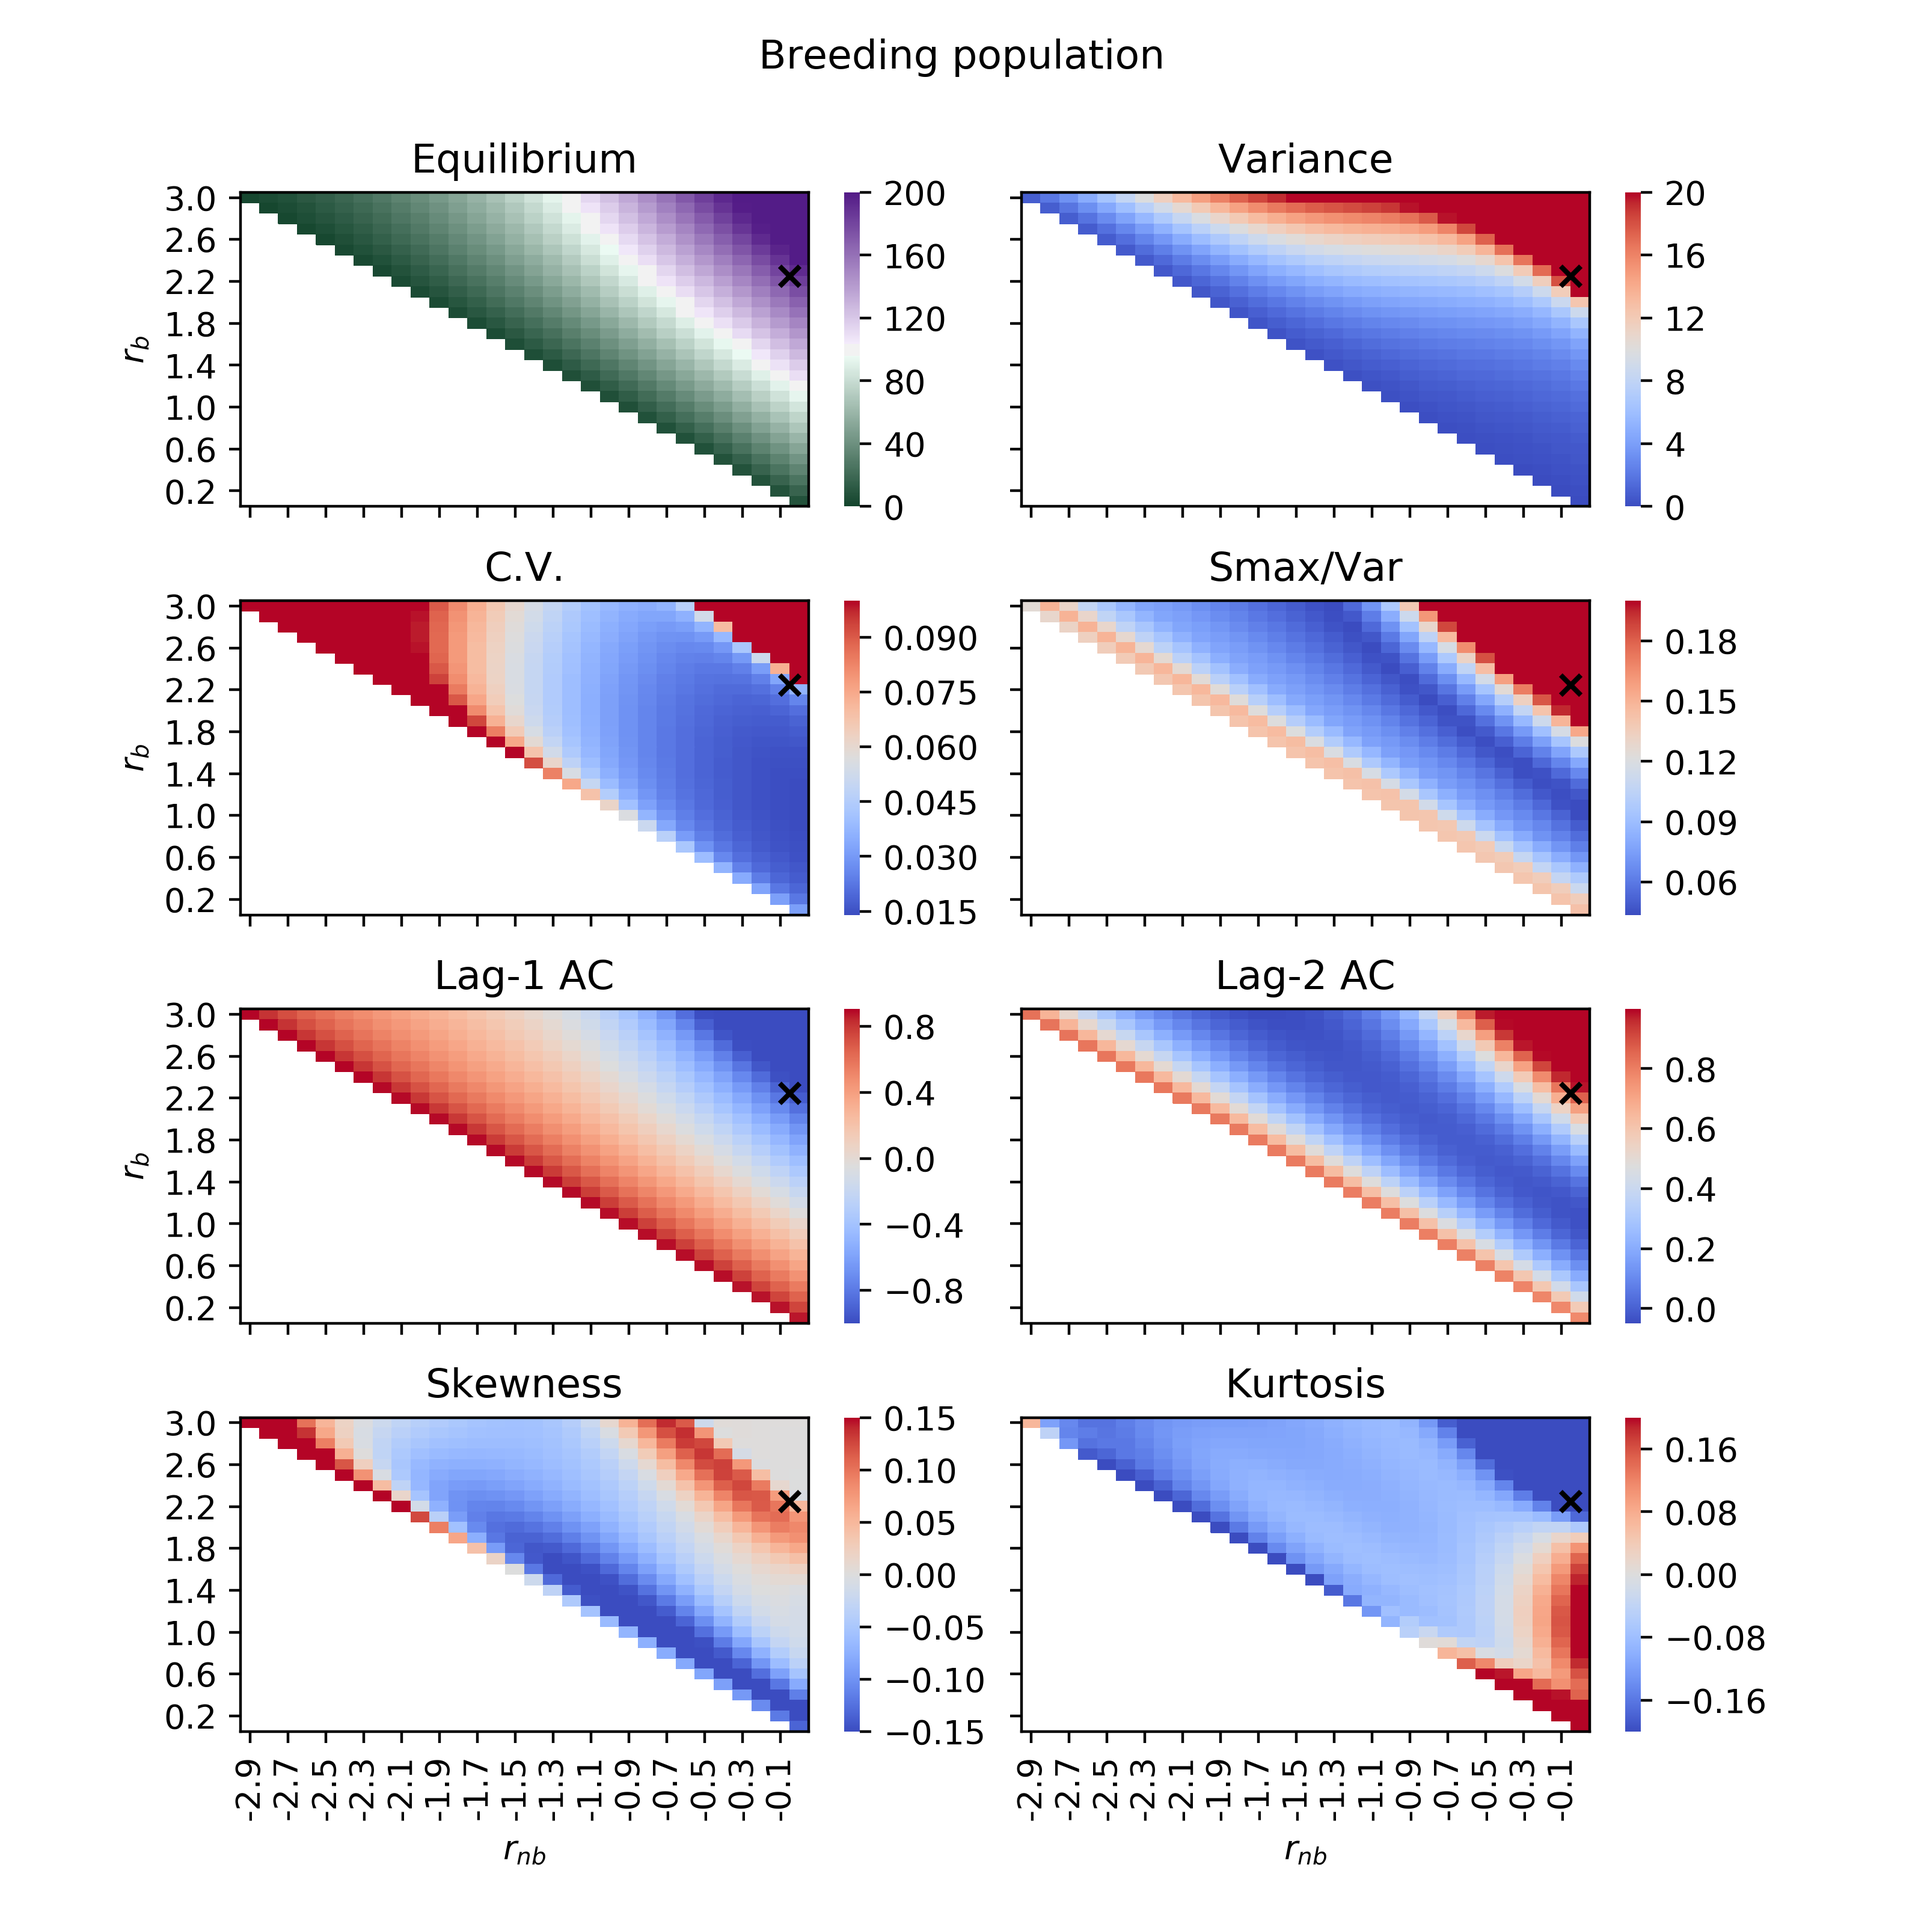
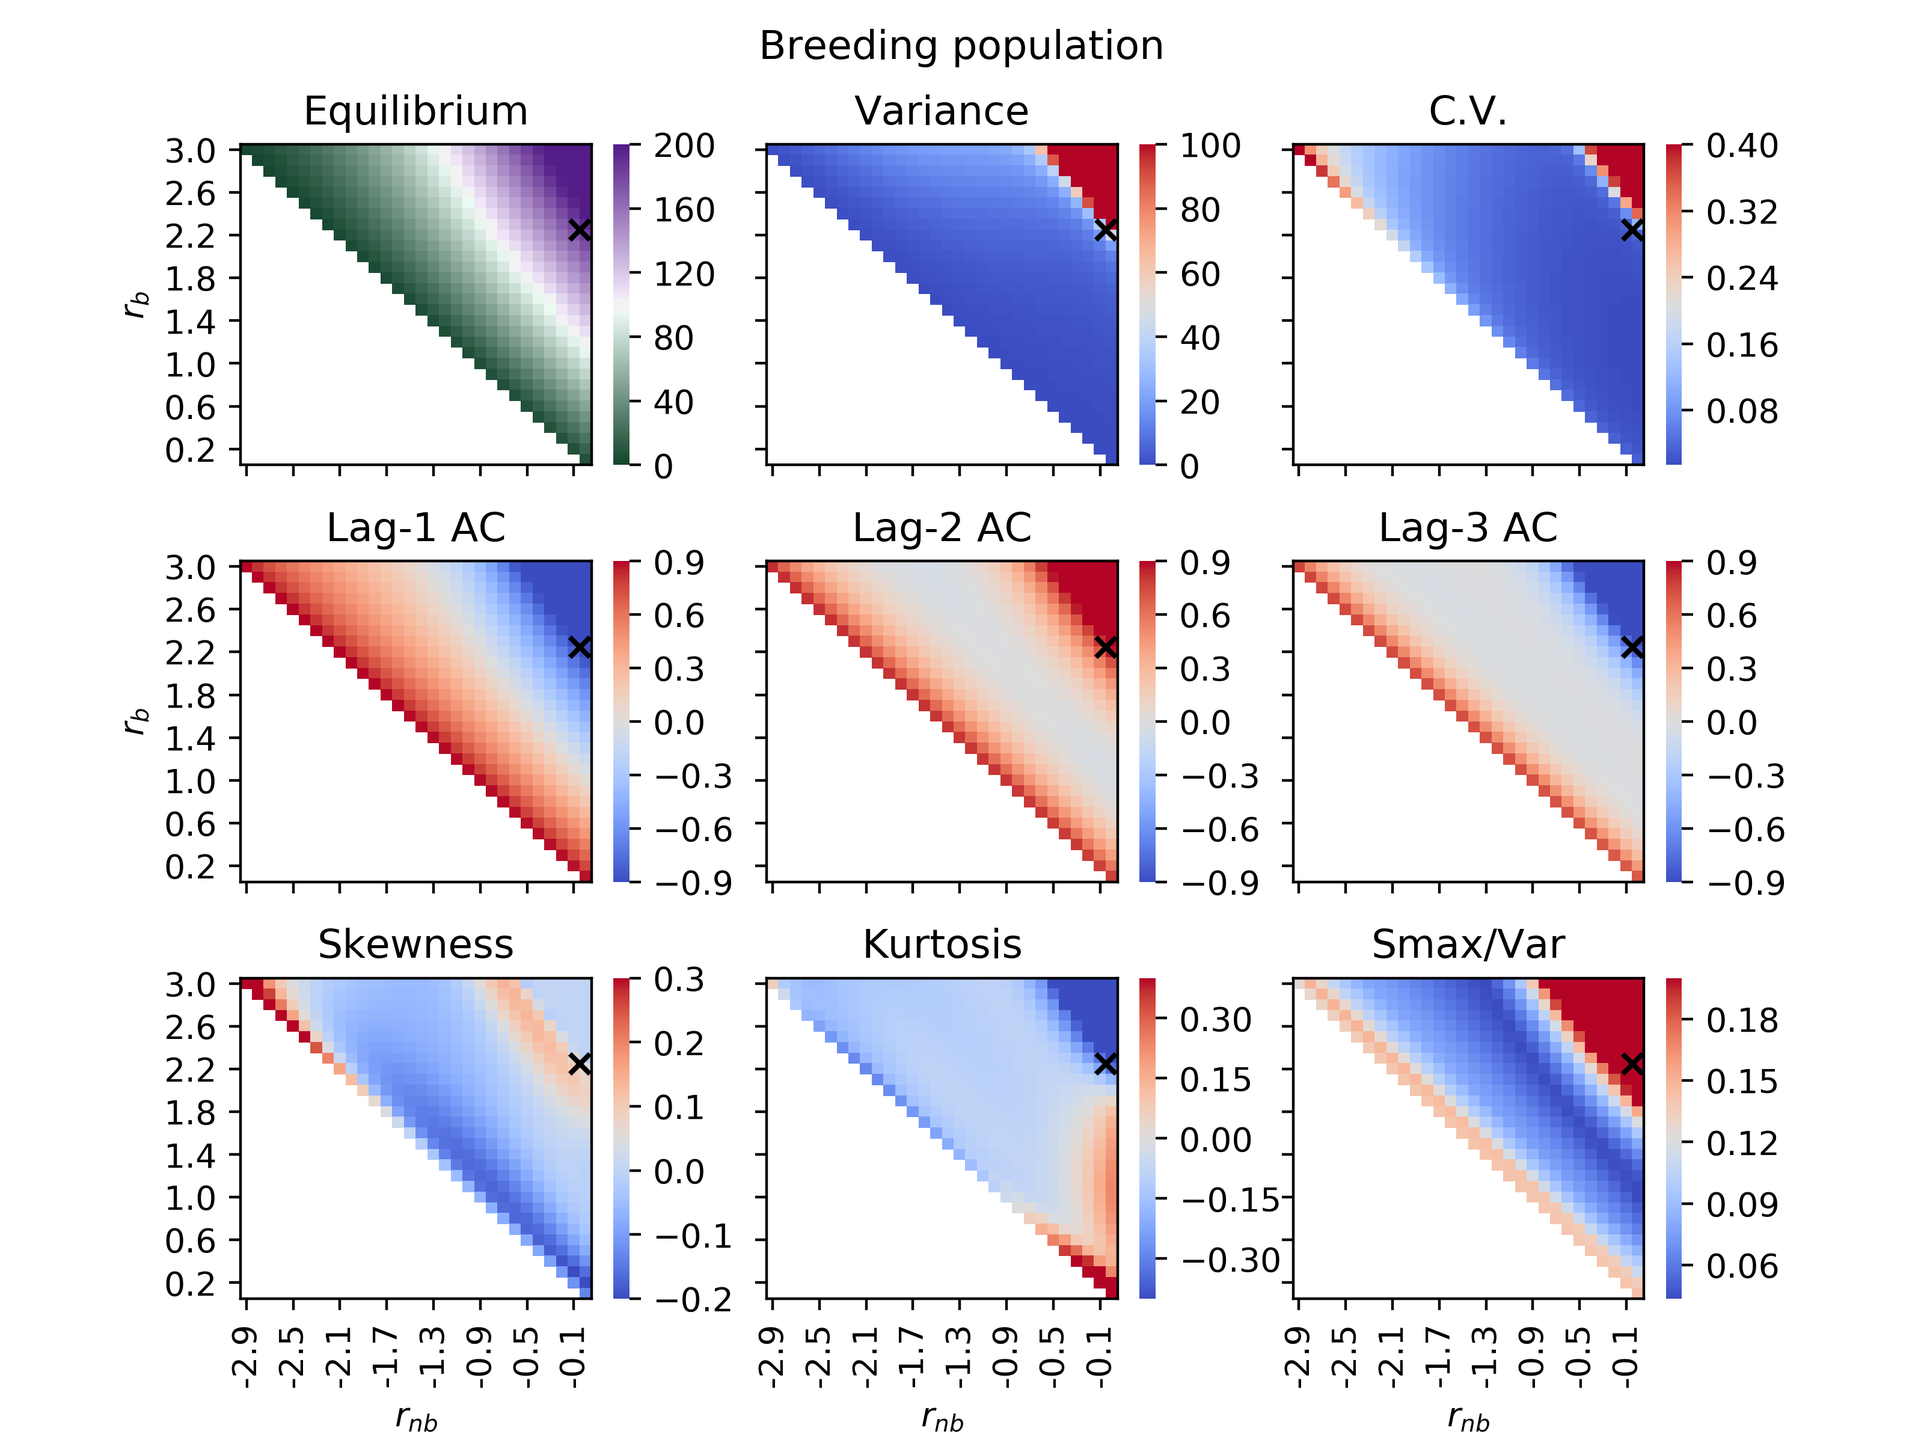
stat ews

diff --git a/models_ricker/ricker_seasonal_coe/sim_trans_rb.py b/models_ricker/ricker_seasonal_coe/sim_trans_rb.py
@@ -45,13 +45,13 @@ dt = 1 # time-step (must be 1 since discrete-time system)
 t0 = 0
 tmax = 1000
 tburn = 200 # burn-in periods
-numSims = 3
+numSims = 10
 seed = 10 # random number generation seed
 
 
 # EWS parameters
 dt2 = 1 # spacing between time-series for EWS computation
-rw = 0.4 # rolling window
+rw = 0.2 # rolling window
 span = 0.5 # Lowess span
 lags = [1,2,3] # autocorrelation lag times
 ews = ['var','ac','sd','cv','skew','kurt','smax','smax/mean','smax/var'] # EWS to compute
@@ -75,7 +75,7 @@ rnb_emp = -0.0568
 rnb = rnb_emp    # Growth rate for non-breeding period (emp. -0.0568)
 alpha_b = 0.01 # density dependent effects in breeding period
 alpha_nb = 0.000672 # density dependent effects in non-breeding period
-a = 0 # Strength of carry-over effects
+a = 0.001 # Strength of carry-over effects
 
 # Noise parameters
 amp_dem_b = 0.02 # amplitude of demographic noise
@@ -349,6 +349,119 @@ axes[4].set_ylabel('Smax/Var')
 axes[5].set_ylabel('Skewness')
 axes[6].set_ylabel('Kurtosis')
 
+
+# Realisation number to plot
+plot_num = 4
+## Plot of trajectory, smoothing and EWS of var (x or y)
+fig1, axes = plt.subplots(nrows=7, ncols=1, sharex=True, figsize=(4,8))
+df_ews.loc[plot_num]['State variable'].unstack(level=0).plot(ax=axes[0],
+          title='Early warning signals for a single realisation')
+df_ews.loc[plot_num]['Coefficient of variation'].unstack(level=0).plot(ax=axes[1],legend=False)
+df_ews.loc[plot_num]['Lag-1 AC'].unstack(level=0).plot(ax=axes[2], legend=False)
+df_ews.loc[plot_num]['Lag-2 AC'].unstack(level=0).plot(ax=axes[3], legend=False)
+df_ews.loc[plot_num,'Smax/Var'].dropna().unstack(level=0).plot(ax=axes[4], legend=False)
+df_ews.loc[plot_num]['Skewness'].unstack(level=0).plot(ax=axes[5], legend=False, xlim=(0,tmax))
+df_ews.loc[plot_num]['Kurtosis'].unstack(level=0).plot(ax=axes[6], legend=False, xlim=(0,tmax))
+
+axes[0].set_ylabel('Population')
+axes[0].legend(title=None)
+axes[1].set_ylabel('CoV')
+axes[2].set_ylabel('Lag-1 AC')
+axes[3].set_ylabel('Lag-2 AC')
+axes[4].set_ylabel('Smax/Var')
+axes[5].set_ylabel('Skewness')
+axes[6].set_ylabel('Kurtosis')
+
+
+# Realisation number to plot
+plot_num = 5
+## Plot of trajectory, smoothing and EWS of var (x or y)
+fig1, axes = plt.subplots(nrows=7, ncols=1, sharex=True, figsize=(4,8))
+df_ews.loc[plot_num]['State variable'].unstack(level=0).plot(ax=axes[0],
+          title='Early warning signals for a single realisation')
+df_ews.loc[plot_num]['Coefficient of variation'].unstack(level=0).plot(ax=axes[1],legend=False)
+df_ews.loc[plot_num]['Lag-1 AC'].unstack(level=0).plot(ax=axes[2], legend=False)
+df_ews.loc[plot_num]['Lag-2 AC'].unstack(level=0).plot(ax=axes[3], legend=False)
+df_ews.loc[plot_num,'Smax/Var'].dropna().unstack(level=0).plot(ax=axes[4], legend=False)
+df_ews.loc[plot_num]['Skewness'].unstack(level=0).plot(ax=axes[5], legend=False, xlim=(0,tmax))
+df_ews.loc[plot_num]['Kurtosis'].unstack(level=0).plot(ax=axes[6], legend=False, xlim=(0,tmax))
+
+axes[0].set_ylabel('Population')
+axes[0].legend(title=None)
+axes[1].set_ylabel('CoV')
+axes[2].set_ylabel('Lag-1 AC')
+axes[3].set_ylabel('Lag-2 AC')
+axes[4].set_ylabel('Smax/Var')
+axes[5].set_ylabel('Skewness')
+axes[6].set_ylabel('Kurtosis')
+
+
+# Realisation number to plot
+plot_num = 6
+## Plot of trajectory, smoothing and EWS of var (x or y)
+fig1, axes = plt.subplots(nrows=7, ncols=1, sharex=True, figsize=(4,8))
+df_ews.loc[plot_num]['State variable'].unstack(level=0).plot(ax=axes[0],
+          title='Early warning signals for a single realisation')
+df_ews.loc[plot_num]['Coefficient of variation'].unstack(level=0).plot(ax=axes[1],legend=False)
+df_ews.loc[plot_num]['Lag-1 AC'].unstack(level=0).plot(ax=axes[2], legend=False)
+df_ews.loc[plot_num]['Lag-2 AC'].unstack(level=0).plot(ax=axes[3], legend=False)
+df_ews.loc[plot_num,'Smax/Var'].dropna().unstack(level=0).plot(ax=axes[4], legend=False)
+df_ews.loc[plot_num]['Skewness'].unstack(level=0).plot(ax=axes[5], legend=False, xlim=(0,tmax))
+df_ews.loc[plot_num]['Kurtosis'].unstack(level=0).plot(ax=axes[6], legend=False, xlim=(0,tmax))
+
+axes[0].set_ylabel('Population')
+axes[0].legend(title=None)
+axes[1].set_ylabel('CoV')
+axes[2].set_ylabel('Lag-1 AC')
+axes[3].set_ylabel('Lag-2 AC')
+axes[4].set_ylabel('Smax/Var')
+axes[5].set_ylabel('Skewness')
+axes[6].set_ylabel('Kurtosis')
+
+
+# Realisation number to plot
+plot_num = 7
+## Plot of trajectory, smoothing and EWS of var (x or y)
+fig1, axes = plt.subplots(nrows=7, ncols=1, sharex=True, figsize=(4,8))
+df_ews.loc[plot_num]['State variable'].unstack(level=0).plot(ax=axes[0],
+          title='Early warning signals for a single realisation')
+df_ews.loc[plot_num]['Coefficient of variation'].unstack(level=0).plot(ax=axes[1],legend=False)
+df_ews.loc[plot_num]['Lag-1 AC'].unstack(level=0).plot(ax=axes[2], legend=False)
+df_ews.loc[plot_num]['Lag-2 AC'].unstack(level=0).plot(ax=axes[3], legend=False)
+df_ews.loc[plot_num,'Smax/Var'].dropna().unstack(level=0).plot(ax=axes[4], legend=False)
+df_ews.loc[plot_num]['Skewness'].unstack(level=0).plot(ax=axes[5], legend=False, xlim=(0,tmax))
+df_ews.loc[plot_num]['Kurtosis'].unstack(level=0).plot(ax=axes[6], legend=False, xlim=(0,tmax))
+
+axes[0].set_ylabel('Population')
+axes[0].legend(title=None)
+axes[1].set_ylabel('CoV')
+axes[2].set_ylabel('Lag-1 AC')
+axes[3].set_ylabel('Lag-2 AC')
+axes[4].set_ylabel('Smax/Var')
+axes[5].set_ylabel('Skewness')
+axes[6].set_ylabel('Kurtosis')
+
+# Realisation number to plot
+plot_num = 8
+## Plot of trajectory, smoothing and EWS of var (x or y)
+fig1, axes = plt.subplots(nrows=7, ncols=1, sharex=True, figsize=(4,8))
+df_ews.loc[plot_num]['State variable'].unstack(level=0).plot(ax=axes[0],
+          title='Early warning signals for a single realisation')
+df_ews.loc[plot_num]['Coefficient of variation'].unstack(level=0).plot(ax=axes[1],legend=False)
+df_ews.loc[plot_num]['Lag-1 AC'].unstack(level=0).plot(ax=axes[2], legend=False)
+df_ews.loc[plot_num]['Lag-2 AC'].unstack(level=0).plot(ax=axes[3], legend=False)
+df_ews.loc[plot_num,'Smax/Var'].dropna().unstack(level=0).plot(ax=axes[4], legend=False)
+df_ews.loc[plot_num]['Skewness'].unstack(level=0).plot(ax=axes[5], legend=False, xlim=(0,tmax))
+df_ews.loc[plot_num]['Kurtosis'].unstack(level=0).plot(ax=axes[6], legend=False, xlim=(0,tmax))
+
+axes[0].set_ylabel('Population')
+axes[0].legend(title=None)
+axes[1].set_ylabel('CoV')
+axes[2].set_ylabel('Lag-1 AC')
+axes[3].set_ylabel('Lag-2 AC')
+axes[4].set_ylabel('Smax/Var')
+axes[5].set_ylabel('Skewness')
+axes[6].set_ylabel('Kurtosis')
 
 
 # Box plot to visualise kendall tau values

diff --git a/models_ricker/ricker_seasonal_coe/sim_trans_rnb.py b/models_ricker/ricker_seasonal_coe/sim_trans_rnb.py
@@ -43,9 +43,9 @@ if not os.path.exists('data_export/'+dir_name):
 # Simulation parameters
 dt = 1 # time-step (must be 1 since discrete-time system)
 t0 = 0
-tmax = 1000
+tmax = 400
 tburn = 200 # burn-in periods
-numSims = 3
+numSims = 10
 seed = 10 # random number generation seed
 
 
@@ -349,6 +349,122 @@ axes[3].set_ylabel('Lag-2 AC')
 axes[4].set_ylabel('Smax/Var')
 axes[5].set_ylabel('Skewness')
 axes[6].set_ylabel('Kurtosis')
+
+
+
+
+# Realisation number to plot
+plot_num = 4
+## Plot of trajectory, smoothing and EWS of var (x or y)
+fig1, axes = plt.subplots(nrows=7, ncols=1, sharex=True, figsize=(4,8))
+df_ews.loc[plot_num]['State variable'].unstack(level=0).plot(ax=axes[0],
+          title='Early warning signals for a single realisation')
+df_ews.loc[plot_num]['Coefficient of variation'].unstack(level=0).plot(ax=axes[1],legend=False)
+df_ews.loc[plot_num]['Lag-1 AC'].unstack(level=0).plot(ax=axes[2], legend=False)
+df_ews.loc[plot_num]['Lag-2 AC'].unstack(level=0).plot(ax=axes[3], legend=False)
+df_ews.loc[plot_num,'Smax/Var'].dropna().unstack(level=0).plot(ax=axes[4], legend=False)
+df_ews.loc[plot_num]['Skewness'].unstack(level=0).plot(ax=axes[5], legend=False, xlim=(0,tmax))
+df_ews.loc[plot_num]['Kurtosis'].unstack(level=0).plot(ax=axes[6], legend=False, xlim=(0,tmax))
+
+axes[0].set_ylabel('Population')
+axes[0].legend(title=None)
+axes[1].set_ylabel('CoV')
+axes[2].set_ylabel('Lag-1 AC')
+axes[3].set_ylabel('Lag-2 AC')
+axes[4].set_ylabel('Smax/Var')
+axes[5].set_ylabel('Skewness')
+axes[6].set_ylabel('Kurtosis')
+
+# Realisation number to plot
+plot_num = 5
+## Plot of trajectory, smoothing and EWS of var (x or y)
+fig1, axes = plt.subplots(nrows=7, ncols=1, sharex=True, figsize=(4,8))
+df_ews.loc[plot_num]['State variable'].unstack(level=0).plot(ax=axes[0],
+          title='Early warning signals for a single realisation')
+df_ews.loc[plot_num]['Coefficient of variation'].unstack(level=0).plot(ax=axes[1],legend=False)
+df_ews.loc[plot_num]['Lag-1 AC'].unstack(level=0).plot(ax=axes[2], legend=False)
+df_ews.loc[plot_num]['Lag-2 AC'].unstack(level=0).plot(ax=axes[3], legend=False)
+df_ews.loc[plot_num,'Smax/Var'].dropna().unstack(level=0).plot(ax=axes[4], legend=False)
+df_ews.loc[plot_num]['Skewness'].unstack(level=0).plot(ax=axes[5], legend=False, xlim=(0,tmax))
+df_ews.loc[plot_num]['Kurtosis'].unstack(level=0).plot(ax=axes[6], legend=False, xlim=(0,tmax))
+
+axes[0].set_ylabel('Population')
+axes[0].legend(title=None)
+axes[1].set_ylabel('CoV')
+axes[2].set_ylabel('Lag-1 AC')
+axes[3].set_ylabel('Lag-2 AC')
+axes[4].set_ylabel('Smax/Var')
+axes[5].set_ylabel('Skewness')
+axes[6].set_ylabel('Kurtosis')
+
+# Realisation number to plot
+plot_num = 6
+## Plot of trajectory, smoothing and EWS of var (x or y)
+fig1, axes = plt.subplots(nrows=7, ncols=1, sharex=True, figsize=(4,8))
+df_ews.loc[plot_num]['State variable'].unstack(level=0).plot(ax=axes[0],
+          title='Early warning signals for a single realisation')
+df_ews.loc[plot_num]['Coefficient of variation'].unstack(level=0).plot(ax=axes[1],legend=False)
+df_ews.loc[plot_num]['Lag-1 AC'].unstack(level=0).plot(ax=axes[2], legend=False)
+df_ews.loc[plot_num]['Lag-2 AC'].unstack(level=0).plot(ax=axes[3], legend=False)
+df_ews.loc[plot_num,'Smax/Var'].dropna().unstack(level=0).plot(ax=axes[4], legend=False)
+df_ews.loc[plot_num]['Skewness'].unstack(level=0).plot(ax=axes[5], legend=False, xlim=(0,tmax))
+df_ews.loc[plot_num]['Kurtosis'].unstack(level=0).plot(ax=axes[6], legend=False, xlim=(0,tmax))
+
+axes[0].set_ylabel('Population')
+axes[0].legend(title=None)
+axes[1].set_ylabel('CoV')
+axes[2].set_ylabel('Lag-1 AC')
+axes[3].set_ylabel('Lag-2 AC')
+axes[4].set_ylabel('Smax/Var')
+axes[5].set_ylabel('Skewness')
+axes[6].set_ylabel('Kurtosis')
+
+# Realisation number to plot
+plot_num = 7
+## Plot of trajectory, smoothing and EWS of var (x or y)
+fig1, axes = plt.subplots(nrows=7, ncols=1, sharex=True, figsize=(4,8))
+df_ews.loc[plot_num]['State variable'].unstack(level=0).plot(ax=axes[0],
+          title='Early warning signals for a single realisation')
+df_ews.loc[plot_num]['Coefficient of variation'].unstack(level=0).plot(ax=axes[1],legend=False)
+df_ews.loc[plot_num]['Lag-1 AC'].unstack(level=0).plot(ax=axes[2], legend=False)
+df_ews.loc[plot_num]['Lag-2 AC'].unstack(level=0).plot(ax=axes[3], legend=False)
+df_ews.loc[plot_num,'Smax/Var'].dropna().unstack(level=0).plot(ax=axes[4], legend=False)
+df_ews.loc[plot_num]['Skewness'].unstack(level=0).plot(ax=axes[5], legend=False, xlim=(0,tmax))
+df_ews.loc[plot_num]['Kurtosis'].unstack(level=0).plot(ax=axes[6], legend=False, xlim=(0,tmax))
+
+axes[0].set_ylabel('Population')
+axes[0].legend(title=None)
+axes[1].set_ylabel('CoV')
+axes[2].set_ylabel('Lag-1 AC')
+axes[3].set_ylabel('Lag-2 AC')
+axes[4].set_ylabel('Smax/Var')
+axes[5].set_ylabel('Skewness')
+axes[6].set_ylabel('Kurtosis')
+
+# Realisation number to plot
+plot_num = 8
+## Plot of trajectory, smoothing and EWS of var (x or y)
+fig1, axes = plt.subplots(nrows=7, ncols=1, sharex=True, figsize=(4,8))
+df_ews.loc[plot_num]['State variable'].unstack(level=0).plot(ax=axes[0],
+          title='Early warning signals for a single realisation')
+df_ews.loc[plot_num]['Coefficient of variation'].unstack(level=0).plot(ax=axes[1],legend=False)
+df_ews.loc[plot_num]['Lag-1 AC'].unstack(level=0).plot(ax=axes[2], legend=False)
+df_ews.loc[plot_num]['Lag-2 AC'].unstack(level=0).plot(ax=axes[3], legend=False)
+df_ews.loc[plot_num,'Smax/Var'].dropna().unstack(level=0).plot(ax=axes[4], legend=False)
+df_ews.loc[plot_num]['Skewness'].unstack(level=0).plot(ax=axes[5], legend=False, xlim=(0,tmax))
+df_ews.loc[plot_num]['Kurtosis'].unstack(level=0).plot(ax=axes[6], legend=False, xlim=(0,tmax))
+
+axes[0].set_ylabel('Population')
+axes[0].legend(title=None)
+axes[1].set_ylabel('CoV')
+axes[2].set_ylabel('Lag-1 AC')
+axes[3].set_ylabel('Lag-2 AC')
+axes[4].set_ylabel('Smax/Var')
+axes[5].set_ylabel('Skewness')
+axes[6].set_ylabel('Kurtosis')
+
+
+
 
 
 
